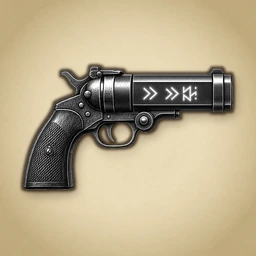
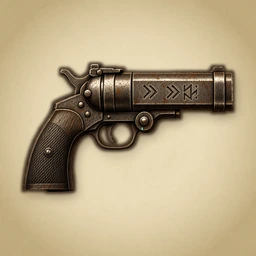
Caster art: restyled Blacksnake/Hognose, patron Focus tiles, DM-only relic Caster Gun art map
- Blacksnake / Hognose: new 1200x400 engravings (Weapons rows, gun cards) and 256 tiles (doll slots, item rows)
- Patron tiles for all seven pacts in assets/img/items/patron/ (replaces #116's fallback)
- Relic Caster Guns (L0199/L0202, DM Guide only): art under assets/img/dm-only/{items,weapons}/caster/, mapped by id in item-art.js; no catalog, store, rules or Add item entries; Twin Puff Adders are left/right items, old combined slug retired
- tools/test-caster-art.mjs

Changed region(s): [[0.0625, 0.2188, 0.9375, 0.7812]]

diff --git a/assets/js/item-art.js b/assets/js/item-art.js
@@ -36,6 +36,30 @@
   byName[norm("Fuse cord")] = "fuse-cord-50-ft";
   byName[norm("Lariat")] = "lariat-50-ft";
 
+  /* 0.3.96 (Jessey 2026-10-20 11:10 PM, Art Bot): relic Caster Gun art (L0199 / L0202). DM Guide only: there are no
+     relic catalog items, store rows or Add item entries, and these slugs are kept out of list() / matchesIn(), so
+     nothing player-facing offers them. The files live under assets/img/dm-only/. When a relic item or gun with one of
+     these ids exists later (DM-placed), relicTile / relicEngraving (and so the doll, item rows, Weapons rows and gun
+     cards) pick the art up by id. The Twin Puff Adders are two items, one per hand; the old combined
+     "twin-puff-adders" slug is retired and maps to nothing. */
+  var RELIC_CASTER = ["viper", "python", "boa", "cobra", "cotton-mouth", "fer-de-lance", "cascabel", "timber-rat",
+    "massasauga", "twin-puff-adder-left", "twin-puff-adder-right"];
+  var relicIds = {};
+  RELIC_CASTER.forEach(function (slug) { relicIds[slug] = slug; });
+  /* Spellings a future catalog id might use. */
+  relicIds.cottonmouth = "cotton-mouth";
+  relicIds["timber-rattler"] = "timber-rat";
+  relicIds["puff-adder-left"] = "twin-puff-adder-left";
+  relicIds["puff-adder-right"] = "twin-puff-adder-right";
+  function relicSlug(x) {
+    var id = typeof x === "string" ? x : String((x && (x.weaponId || x.catalogId || x.id || x.weapon)) || "");
+    id = id.toLowerCase().replace(/^relic-/, "").replace(/-caster-gun$/, "");
+    return relicIds[id] || "";
+  }
+  function relicTile(x) { var s = relicSlug(x); return s ? prefix() + "assets/img/dm-only/items/caster/" + s + ".webp" : ""; }
+  function relicEngraving(x) { var s = relicSlug(x); return s ? prefix() + "assets/img/dm-only/weapons/caster/" + s + ".webp" : ""; }
+  function relics() { return RELIC_CASTER.map(function (s) { return { slug: s, tile: relicTile(s), engraving: relicEngraving(s) }; }); }
+
   function norm(s) {
     return String(s || "")
       .toLowerCase()
@@ -69,6 +93,8 @@
     }
     var slug = slugFor(item);
     if (slug) return prefix() + "assets/img/items/" + slug + ".webp";
+    var relic = relicTile(item);
+    if (relic) return relic;
     if (root.SSDNSInstrumentArt && root.SSDNSInstrumentArt.srcFor) return root.SSDNSInstrumentArt.srcFor(item) || "";
     return "";
   }
@@ -110,6 +136,10 @@
     srcFor: srcFor,
     list: list,
     matchesIn: matchesIn,
-    thumbHtml: thumbHtml
+    thumbHtml: thumbHtml,
+    relicSlug: relicSlug,
+    relicTile: relicTile,
+    relicEngraving: relicEngraving,
+    relics: relics
   };
 })(typeof window !== "undefined" ? window : globalThis);

diff --git a/assets/js/weapon-art.js b/assets/js/weapon-art.js
@@ -115,10 +115,16 @@
     if (id && bySlug[id]) return id;
     if (id && ID_ALIAS[id]) return ID_ALIAS[id];
     if (id && DM_ID[id]) return DM_ID[id];
+    var R = relicArt();
+    if (id && R && R.relicSlug(id)) return R.relicSlug(id);
     var key = normName(name);
     if (key && DM_NAME[key]) return DM_NAME[key];
     return (key && byName[key]) || "";
   }
+
+  /* 0.3.99: relic Caster Guns (DM Guide only) live in SSDNSItemArt's relic map; their engravings sit under
+     assets/img/dm-only/weapons/caster/. Not in NAMES, so slugs() stays the player weapon list. */
+  function relicArt() { return root.SSDNSItemArt && root.SSDNSItemArt.relicSlug ? root.SSDNSItemArt : null; }
 
   function isDmOnly(slug) {
     return slug === "the-peace-maker" || slug === "hell-maker";
@@ -135,6 +141,8 @@
   function srcFor(weapon, opts) {
     var slug = slugFor(weapon);
     if (!slug) return "";
+    var R = relicArt();
+    if (R && R.relicSlug(slug) === slug) return R.relicEngraving(slug);
     if (isDmOnly(slug)) {
       if (!opts || !opts.dm) return "";
       return pagePrefix() + "assets/img/dm-only/" + slug + ".webp";

diff --git a/assets/js/iron-art.js b/assets/js/iron-art.js
@@ -63,7 +63,10 @@
     if (!WEAPON_TILE[id] && root.SSDNSWeaponArt && root.SSDNSWeaponArt.slugFor) {
       try { id = root.SSDNSWeaponArt.slugFor(w) || id; } catch (e) {}
     }
-    return WEAPON_TILE[id] ? prefix() + WEAPON_TILE[id] : "";
+    if (WEAPON_TILE[id]) return prefix() + WEAPON_TILE[id];
+    /* 0.3.99: relic Caster Guns (DM-placed only) get their square tile from the relic map in item-art.js */
+    var R = root.SSDNSItemArt;
+    return R && R.relicTile ? R.relicTile(typeof w === "string" ? w : (w && w.id) || id) || "" : "";
   }
   /* Item tile for an inventory item on character c: the Borrowed Iron gets its pact tile; "" = keep the item's own art. */
   function itemTile(item, c, opts) {

diff --git a/assets/js/items.js b/assets/js/items.js
@@ -1418,7 +1418,7 @@
       return IA.itemTile ? IA.itemTile(item, c) || "" : "";
     } catch (e) { return ""; }
   }
-  function isWideArt(src) { return /assets\/img\/(weapons|dm-only)\//.test(String(src || "")); }
+  function isWideArt(src) { return /assets\/img\/(weapons\/|dm-only\/(?!items\/))/.test(String(src || "")); }
   function eqThumb(src, cat) {
     var ph = placeholderFor(cat);
     return '<span class="eq-thumb' + (src ? "" : " eq-ph") + (isWideArt(src) ? " eq-wide" : "") + '"><img loading="lazy" decoding="async" width="32" height="32" alt="" src="' + esc(src || ph) + '"' +
